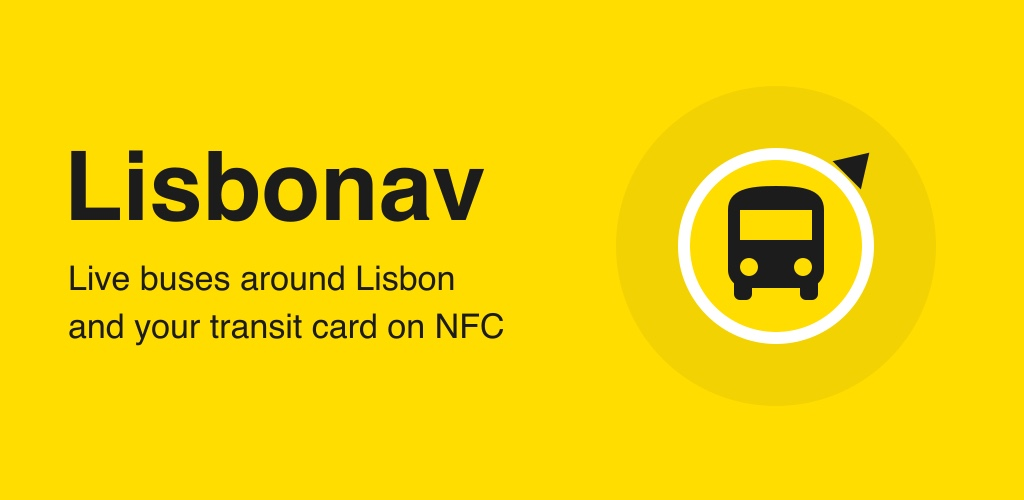
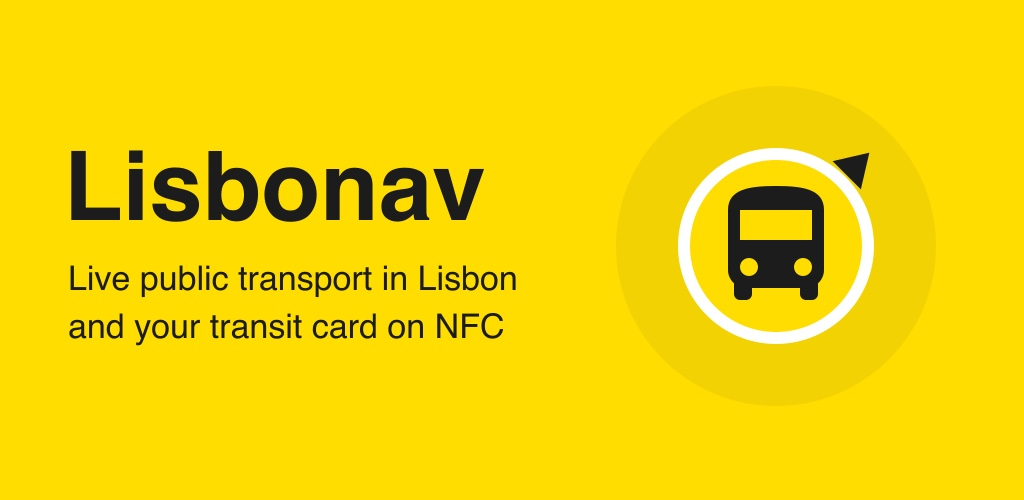
Match the Play listing to the console and make the tagline mode-neutral (#39)
* Match the Play listing to the console and make the tagline mode-neutral

- Feature graphic: "Live public transport in Lisbon" instead of buses,
  so it stays right when other transport is added
- title.txt: "Lisbonav", the name used in the Play Console
- Form guide: the answers actually given (target audience 13+, content
  rating with "All Other App Types", sign in details)

* Point to the new place of the app signing key in Play Console

Changed region(s): [[0.1562, 0.51, 0.5312, 0.6]]

diff --git a/distribution/play/README.md b/distribution/play/README.md
@@ -26,9 +26,9 @@ Release notes for each upload: [`distribution/whatsnew/whatsnew-en-US`](../whats
 |---|---|
 | Privacy policy | URL above |
 | Ads | No ads |
-| App access | All functionality is available without special access (no login) |
-| Content rating | IARC questionnaire: category *Reference, News, or Educational* / utility; no violence, sexual content, language, controlled substances, gambling; no user-generated content or chat; no purchases |
-| Target audience | 18 and over (not designed for children) |
+| Sign in details (was "App access") | No part of the app is restricted (no login, no payments) |
+| Content rating | IARC questionnaire, category *All Other App Types*: No to every question (no ratings-relevant content, no user interaction, no online media content, no age-restricted products, no location sharing, no digital purchases or rewards, not a browser, not news / educational) |
+| Target audience | 13–15, 16–17 and 18 and over (teens use the buses and student passes); not under 13, which would bring in the Families policy; "unintentionally appeals to children": No |
 | News app | No |
 | Government app | No |
 | Financial features | None |
@@ -57,6 +57,8 @@ Release notes for each upload: [`distribution/whatsnew/whatsnew-en-US`](../whats
 
 - **Not affiliated:** the description ends with the disclaimer; keep it. Don't use Carris
   Metropolitana, TML or Navegante logos in the screenshots or graphics.
-- **Maps key:** after the first upload, add the **app signing key SHA-1** (Test and release → App
-  integrity → App signing) to the Maps key's Android restrictions, or the map is grey for Play users.
+- **Maps key:** after the first upload, add the **app signing key SHA-1** to the Maps key's Android
+  restrictions, or the map is grey for Play users. In Play Console: *Protected with Play* → Play app
+  signing (App integrity moved there in 2026), or *App bundle explorer* → version → *Downloads* →
+  signing key.
 - Full walk-through, tracks, testing requirement and automation: playbook doc 38.
